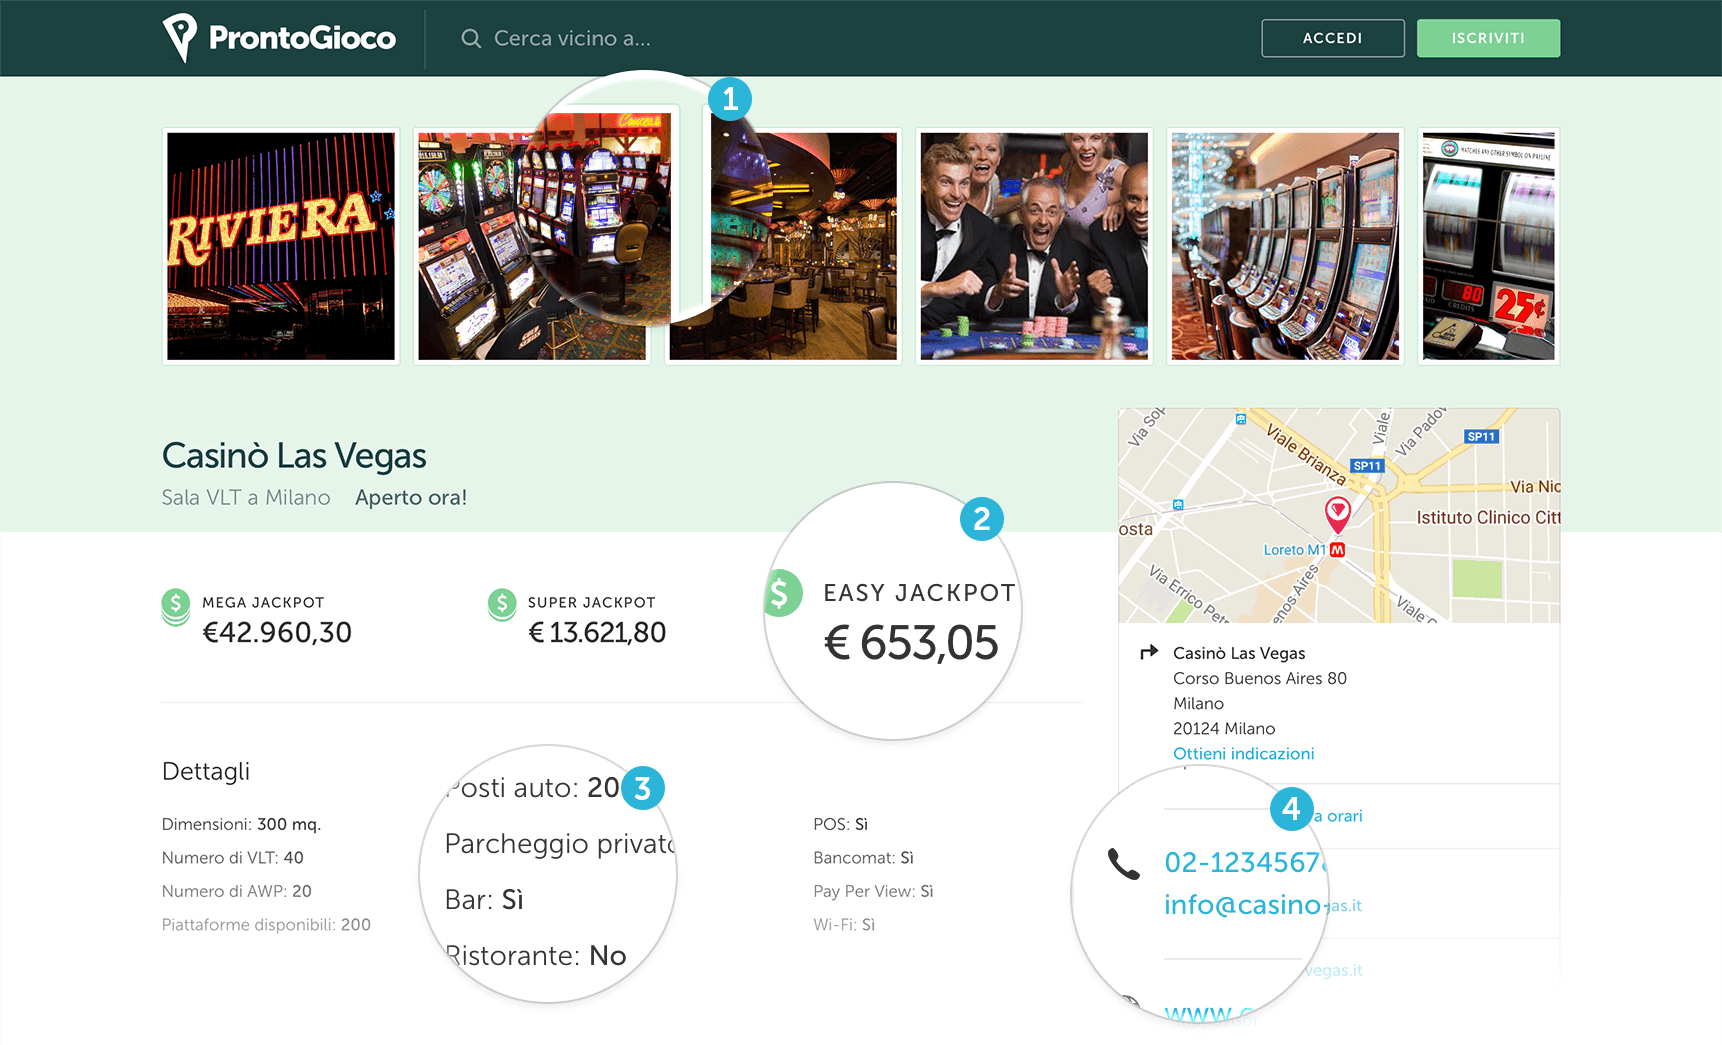
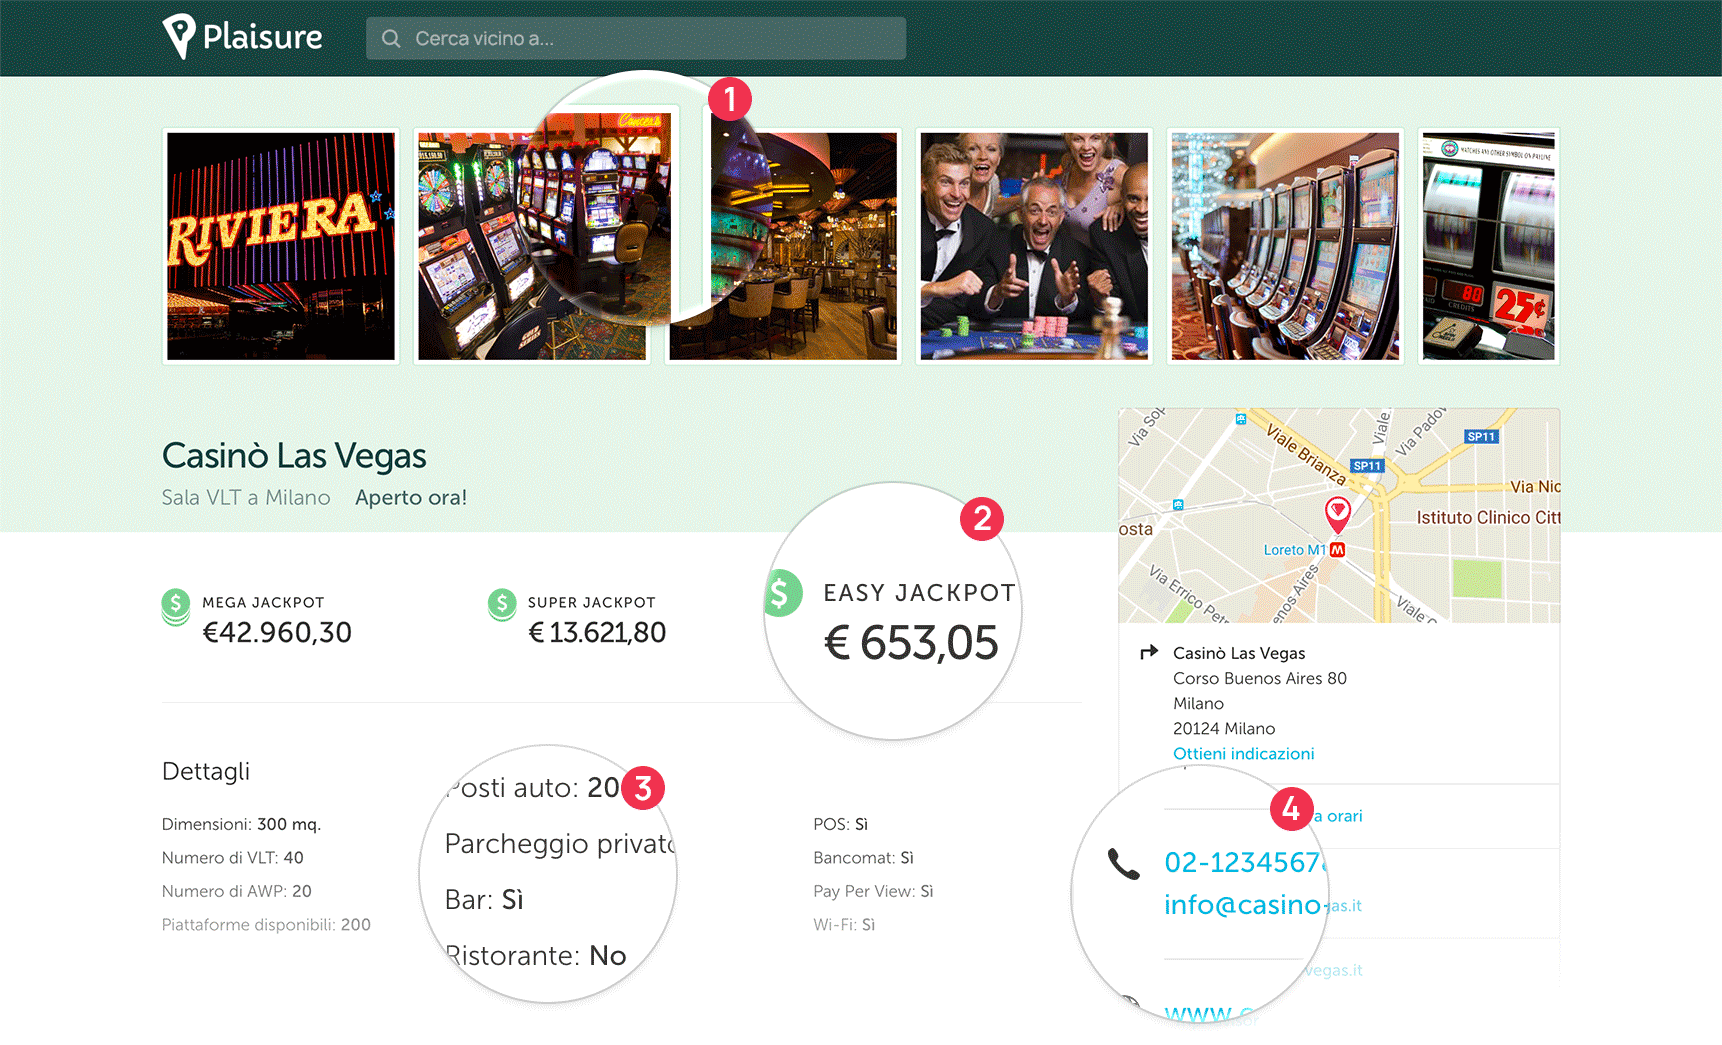
Aggiornata la pagina /promote

diff --git a/lang/en.js b/lang/en.js
@@ -518,18 +518,18 @@ export default {
 			hero: {
 				title: "Promote your venue, it's free!",
 				paragraph:
-					"You're the owner of a game-related business looking for new ways to promote it? Your venue is already listed on {name} and you would like to show more information to visitors? In both cases, {strong}",
+					'Are you the owner of a game-related business looking for new ways to promote it? Your venue is already listed on {name} and you would like to show more information to visitors? In both cases, {strong}',
 				paragraph_strong: "you're in the right place!"
 			},
 			example: {
 				paragraph1:
-					'Adding or claiming an existing venue will allow you to reach to future clients by just adding basic information like business hours, photos, machine count and machine types, benefits, venue description and more.',
+					'Adding your business or claiming an existing venue will allow you to reach to future clients by just adding basic information like business hours, photos, machine count and machine types, benefits, venue description and more.',
 				paragraph2:
 					'Here you an example venue with additional information, like photos {1}, custom jackpots {2}, details and services {3}, and contact information {4}.',
 				paragraph3:
 					"The more the information, the more you'll gather visitors. For example, displaying the business hours allows night owls to know if your venue is open in less canon hours.",
 				paragraph4:
-					'{name} is often consulted by players that want to spend their free time, and they could be choosing you!'
+					'{name} is often consulted by players that are looking where to spend their free time, and they could be choosing your place!'
 			},
 			cost: {
 				title: 'How much will it cost?',
@@ -538,20 +538,18 @@ export default {
 				paragraph1_strong:
 					'adding a venue or claiming it to add basic information is completely free',
 				paragraph2:
-					'Instead, if you wish to highlight and make your business easier to find, {contact} to try one of our premium plans at special launch prices.',
-				paragraph2_contact: 'contact us'
+					"Once in {name}'s catalog, you may choose to highlight your business and make it easier to find by simply buying a monthly subscription which you could disable anytime. No hidden costs!"
 			},
 			start: {
 				title: 'What are you waiting? Start now!',
 				paragraph1:
-					"If you're still doubtful, you really shouldn't. Adding or claiming your venue will only bring benfits. Our team will deal with the necessary work to update your business information, and soon you will be able to make changes by yourself!",
+					"If you're still doubtful, you really shouldn't. Adding or claiming your venue will only bring benefits. You will be able to customize your business' presence on {name} and autonomously update its information.",
 				paragraph2:
-					'If you already found your business on {name}, click on “{strong1}” in the business detail page to contact us. Otherwise just drop us a line at {email} specifying the venue name and the physical addreess. {strong2}',
-				paragraph2_strong1: 'Claim this venue',
-				paragraph2_strong2:
-					'In both cases, our team will get in touch as soon as possible.'
+					"If you already found your business on {name}, click on “{strong}” in the business detail page to continue. If you haven't already, you will need to register.",
+				paragraph2_strong: 'Claim this venue'
 			},
-			contact: 'Contact us'
+			manage: 'Manage your venue',
+			register: 'Register now'
 		},
 
 		about: {

diff --git a/lang/it.js b/lang/it.js
@@ -534,7 +534,7 @@ export default {
 				paragraph3:
 					'Più informazioni la tua pagina offre, più potenziali clienti potrebbero essere interessati a frequentare la tua sala. Ad esempio, specificare gli orari di apertura permette a chi fa una vita notturna di sapere se la sala è aperta anche in orari meno canonici.',
 				paragraph4:
-					'{name} viene consultato dai giocatori che vogliono decidere dove passare il proprio tempo libero, e questi potrebbero scegliere proprio la tua sala!'
+					'{name} viene consultato dai giocatori che stanno decidendo dove passare il proprio tempo libero, e potrebbero scegliere proprio la tua sala!'
 			},
 			cost: {
 				title: 'Quanto costa?',
@@ -543,20 +543,18 @@ export default {
 				paragraph1_strong:
 					"aggiungere un'attività o rivendicarla per inserire le informazioni essenziali è assolutamente gratuito",
 				paragraph2:
-					'Se invece desideri evidenziare la tua attività e farla trovare più facilmente di quelle dei tuoi concorrenti, {contact} per provare uno dei nostri piani premium a prezzi di lancio molto vantaggiosi.',
-				paragraph2_contact: 'scrivici'
+					'Una volta presente nel catalogo di {name}, potrai evidenziare la tua attività e farla trovare più facilmente di quelle dei tuoi concorrenti semplicemente sottoscrivendo un abbonamento mensile che potrai disattivare quando vorrai. Non ci sono costi nascosti!'
 			},
 			start: {
 				title: 'Che aspetti? Inizia subito!',
 				paragraph1:
-					'Se sei ancora indeciso, non dovresti esserlo. Aggiungere o rivendicare la tua attività porterà soltanto benefici. Il nostro staff si occuperà di tutto il necessario per aggiornare i dati, e in futuro potrai anche modificarli in autonomia!',
+					'Se sei ancora indeciso, non dovresti esserlo. Aggiungere o rivendicare la tua attività porterà soltanto benefici. Potrai personalizzare la tua presenza su {name} e aggiornare i suoi dati in totale autonomia.',
 				paragraph2:
-					"Se hai già trovato la tua attività su {name}, fai click su “{strong1}” nella pagina con i dettagli dell'attività per contattarci. Altrimenti scrivi all'indirizzo {email} ricordandoti di specificare il nome dell'attività e l'indirizzo. {strong2}",
-				paragraph2_strong1: 'Rivendica attività',
-				paragraph2_strong2:
-					'In entrambi i casi sarai ricontattato prima possibile dal nostro staff.'
+					"Se hai già trovato la tua attività su {name}, fai click su “{strong}” nella pagina con i dettagli dell'attività per continuare. Se non l'hai già fatto, dovrai registrarti.",
+				paragraph2_strong: 'Rivendica attività'
 			},
-			contact: 'Contattaci'
+			manage: 'Gestisci la tua attività',
+			register: 'Registrati'
 		},
 
 		about: {

diff --git a/pages/promote.vue b/pages/promote.vue
@@ -31,7 +31,7 @@
 				<div class="row">
 					<div class="col-md-10 mx-md-auto col-lg-9">
 						<i18n tag="p" path="pages.promote.example.paragraph2">
-							<span v-for="n in 4" :key="n" :place="n" class="badge badge-pill badge-primary">{{ n }}</span>
+							<span v-for="n in 4" :key="n" :place="n" class="badge badge-pill badge-accent">{{ n }}</span>
 						</i18n>
 					</div>
 				</div>
@@ -52,22 +52,19 @@
 							<span place="name">{{ $constants.APP_NAME }}</span>
 							<strong place="strong">{{ $t('pages.promote.cost.paragraph1_strong') }}</strong>
 						</i18n>
-						<i18n tag="p" path="pages.promote.cost.paragraph2">
-							<a :href="`mailto:${$constants.EMAIL_VENUES}`" place="contact">{{ $t('pages.promote.cost.paragraph2_contact') }}</a>
-						</i18n>
+						<p>{{ $t('pages.promote.cost.paragraph2', { name: $constants.APP_NAME }) }}</p>
 					</div>
 
 					<div class="section my-5">
 						<h2 class="section-title text-center">{{ $t('pages.promote.start.title') }}</h2>
-						<p>{{ $t('pages.promote.start.paragraph1') }}</p>
+						<p>{{ $t('pages.promote.start.paragraph1', { name: $constants.APP_NAME }) }}</p>
 						<i18n tag="p" path="pages.promote.start.paragraph2">
 							<span place="name">{{ $constants.APP_NAME }}</span>
-							<strong place="strong1">{{ $t('pages.promote.start.paragraph2_strong1') }}</strong>
-							<a :href="`mailto:${$constants.EMAIL_VENUES}`" place="email"><strong>{{ $constants.EMAIL_VENUES }}</strong></a>
-							<strong place="strong2">{{ $t('pages.promote.start.paragraph2_strong2') }}</strong>
+							<strong place="strong">{{ $t('pages.promote.start.paragraph2_strong') }}</strong>
 						</i18n>
 						<p class="text-center my-5">
-							<a :href="`mailto:${$constants.EMAIL_VENUES}`" class="btn btn-lg btn-primary">{{ $t('pages.promote.contact') }}</a>
+							<nuxt-link v-if="$auth.user" :to="localePath('user')" class="btn btn-lg btn-primary">{{ $t('pages.promote.manage') }}</nuxt-link>
+							<nuxt-link v-else :to="localePath('register')" class="btn btn-lg btn-primary">{{ $t('pages.promote.register') }}</nuxt-link>
 						</p>
 					</div>
 				</div>

diff --git a/assets/scss/pages/_promote.scss b/assets/scss/pages/_promote.scss
@@ -20,7 +20,7 @@
 			font-size: $font-size-lg;
 		}
 		.section-title {
-			font-size: $h2-font-size;
+			font-size: $h3-font-size;
 		}
 	}
 }
